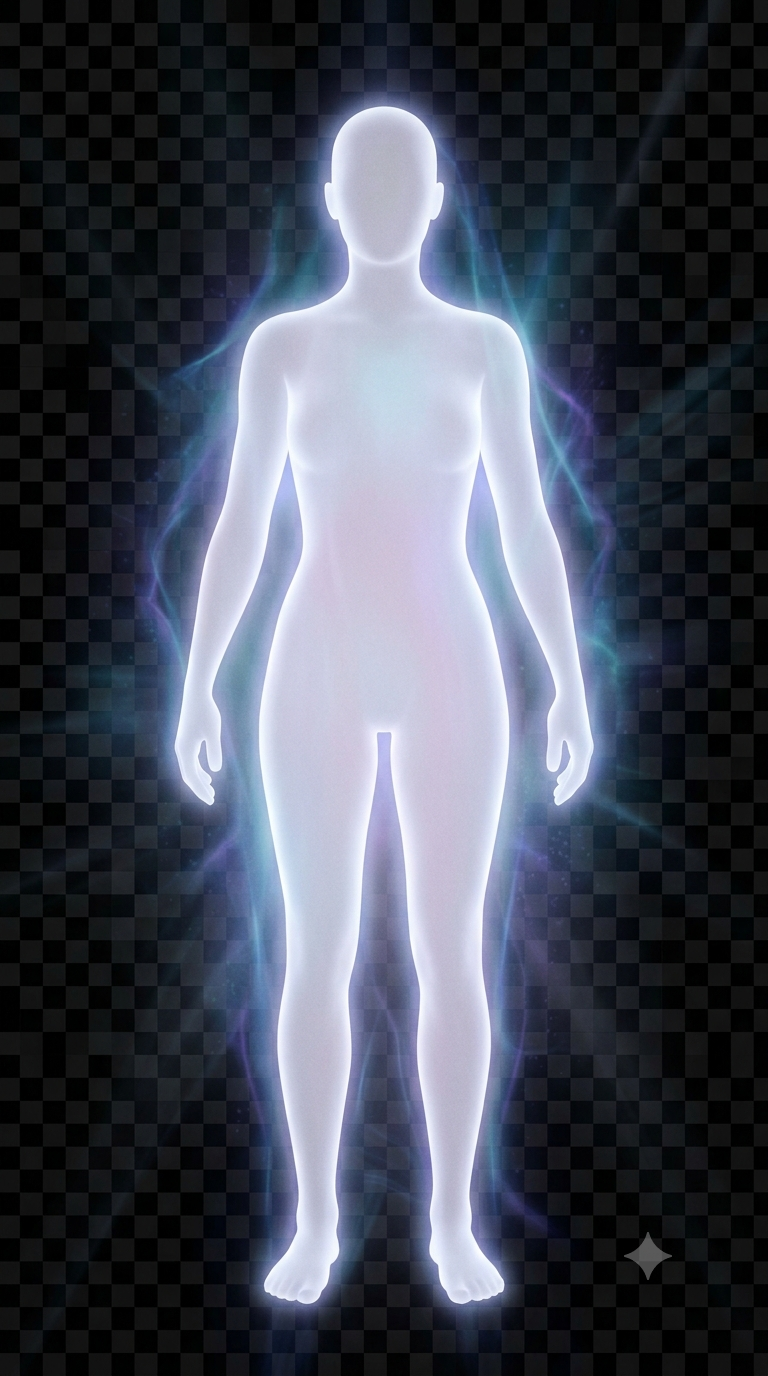
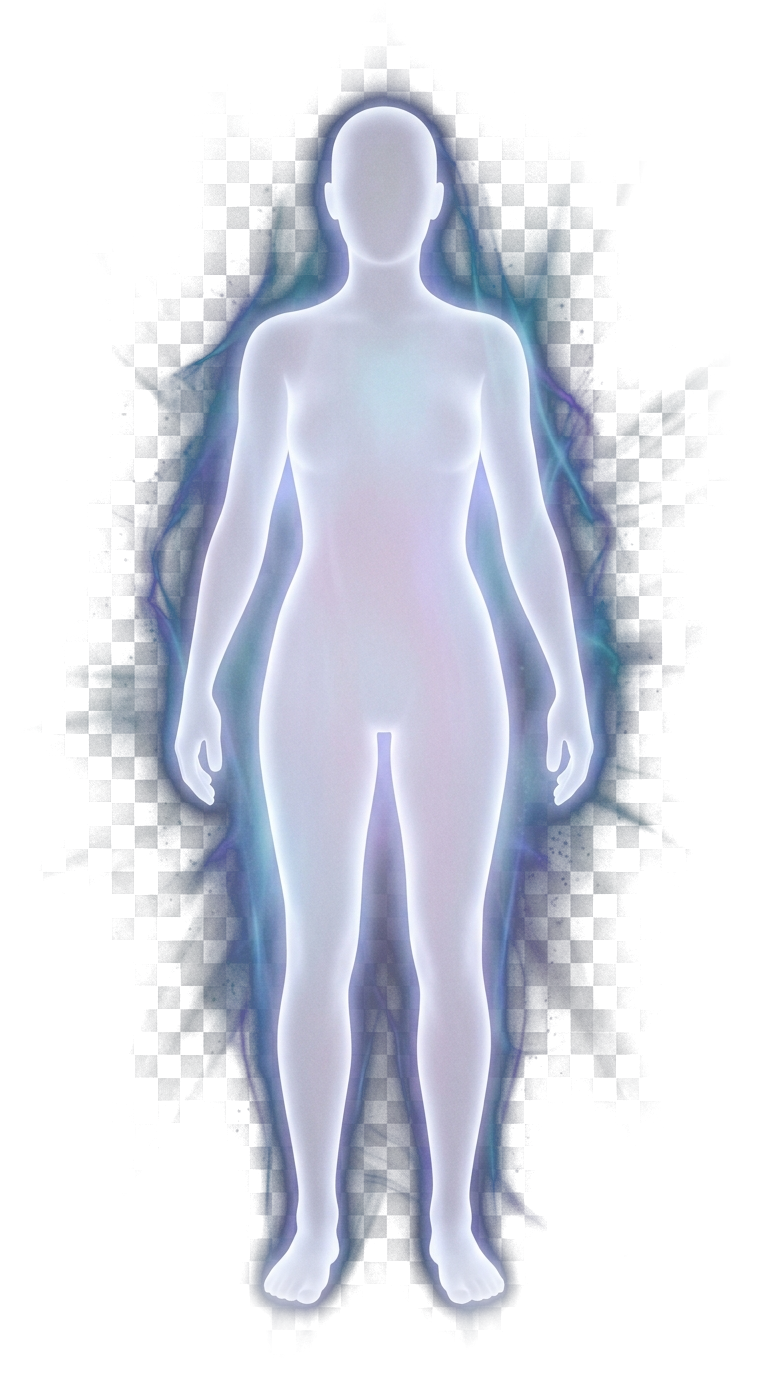
fix(biofield): true-alpha silhouettes + chakra spacing 15%
- Bake real transparency into silhouette-{male,female}.png: luminance-key the
  dark background to alpha plus an elliptical edge feather, so the rectangular
  image boundary is gone at the source (RGBA cutout).
- Drop the runtime offscreen feather mask — a plain screen-blend of the alpha
  PNG now composites cleanly on the dark canvas.
- Chakra vertical spacing loosened to 15% tightening (0.85 factor) — a touch
  more open than the 20% version.
- Image cache-bust ?v=4 → ?v=5; SW BUILD_ID → v76.

Claude-Session: https://claude.ai/code/session_01MFLNw8QuRiPNZXNVCU6Fv6

diff --git a/public/biofield.html b/public/biofield.html
@@ -2803,16 +2803,16 @@ window.addEventListener('keydown', e => {
     // chest y=170, mid-abdomen y=240, lower-abdomen y=290, crotch y=325
     // Mapped to canvas via (svg_y / 500) * bodyHeight + bodyTop
     function bY(svgY) { return bodyTop + (svgY / 500) * bodyHeight; }
-    // Vertical spacing tightened 20% toward the Root (index 0 fixed as anchor):
-    // new = 255 + (old - 255) * 0.8
+    // Vertical spacing tightened 15% toward the Root (index 0 fixed as anchor):
+    // new = 255 + (old - 255) * 0.85
     const CHAKRA_Y = [
       bY(255),    // 0 Root   (anchor, unchanged)
-      bY(223),    // 1 Sacral
-      bY(187),    // 2 Solar
-      bY(147),    // 3 Heart
-      bY(108.6),  // 4 Throat
-      bY(83),     // 5 3rd Eye
-      bY(55),     // 6 Crown
+      bY(221),    // 1 Sacral
+      bY(182.75), // 2 Solar
+      bY(140.25), // 3 Heart
+      bY(99.4),   // 4 Throat
+      bY(72.25),  // 5 3rd Eye
+      bY(42.5),   // 6 Crown
     ];
 
     // ── 1) Background — deep cosmic dark (matches the luminous body image) ──
@@ -3521,7 +3521,7 @@ C 102 270 98 270 88 264 Z`;
         }
       };
       img.onerror = () => tryNext(i + 1);
-      img.src = '/assets/aura/silhouette-' + gender + '.' + exts[i] + '?v=4';
+      img.src = '/assets/aura/silhouette-' + gender + '.' + exts[i] + '?v=5';
     };
     tryNext(0);
   }
@@ -3541,31 +3541,12 @@ C 102 270 98 270 88 264 Z`;
       const drawH = bodyHeight;
       const drawW = drawH * aspect;
       const drawX = (SIZE - drawW) / 2;
-      const cx = SIZE / 2;
-      const bodyMidY = bodyTop + bodyHeight / 2;
-      // Draw onto an offscreen canvas and feather the edges with a vertical
-      // elliptical mask so the image's rectangular boundary disappears, then
-      // composite with 'screen' (its near-black background drops out and only
-      // the glowing body + aura remain on the dark canvas).
-      const oc = document.createElement('canvas');
-      oc.width = SIZE; oc.height = SIZE;
-      const octx = oc.getContext('2d');
-      octx.drawImage(img, drawX, bodyTop, drawW, drawH);
-      octx.globalCompositeOperation = 'destination-in';
-      octx.save();
-      octx.translate(cx, bodyMidY);
-      const ry = bodyHeight * 0.62, rx = drawW * 0.64;
-      octx.scale(rx / ry, 1);                 // vertical egg-shaped feather
-      const vg = octx.createRadialGradient(0, 0, ry * 0.58, 0, 0, ry);
-      vg.addColorStop(0, 'rgba(0,0,0,1)');
-      vg.addColorStop(0.76, 'rgba(0,0,0,1)');
-      vg.addColorStop(1, 'rgba(0,0,0,0)');
-      octx.fillStyle = vg;
-      octx.fillRect(-SIZE * 2, -SIZE * 2, SIZE * 4, SIZE * 4);
-      octx.restore();
+      // The PNG is now a true-alpha cutout (transparent background, edges already
+      // feathered), so a plain screen-blend composites the glowing body + aura
+      // onto the dark canvas with no rectangular boundary.
       ctx.save();
       ctx.globalCompositeOperation = 'screen';
-      ctx.drawImage(oc, 0, 0);
+      ctx.drawImage(img, drawX, bodyTop, drawW, drawH);
       ctx.restore();
       return;
     }

diff --git a/public/sw.js b/public/sw.js
@@ -1,7 +1,7 @@
 // sw.js — 5DO 서비스워커 v4 (2026-04-20)
 // Cold-start hardening: every awaited boot step now has a timeout,
 // auth UI paints before session restore, staged retries for library + login.
-const BUILD_ID = '2026-07-19-v75';
+const BUILD_ID = '2026-07-19-v76';
 
 const STATIC_CACHE  = `5do-static-${BUILD_ID}`;
 const RUNTIME_CACHE = `5do-runtime-${BUILD_ID}`;
